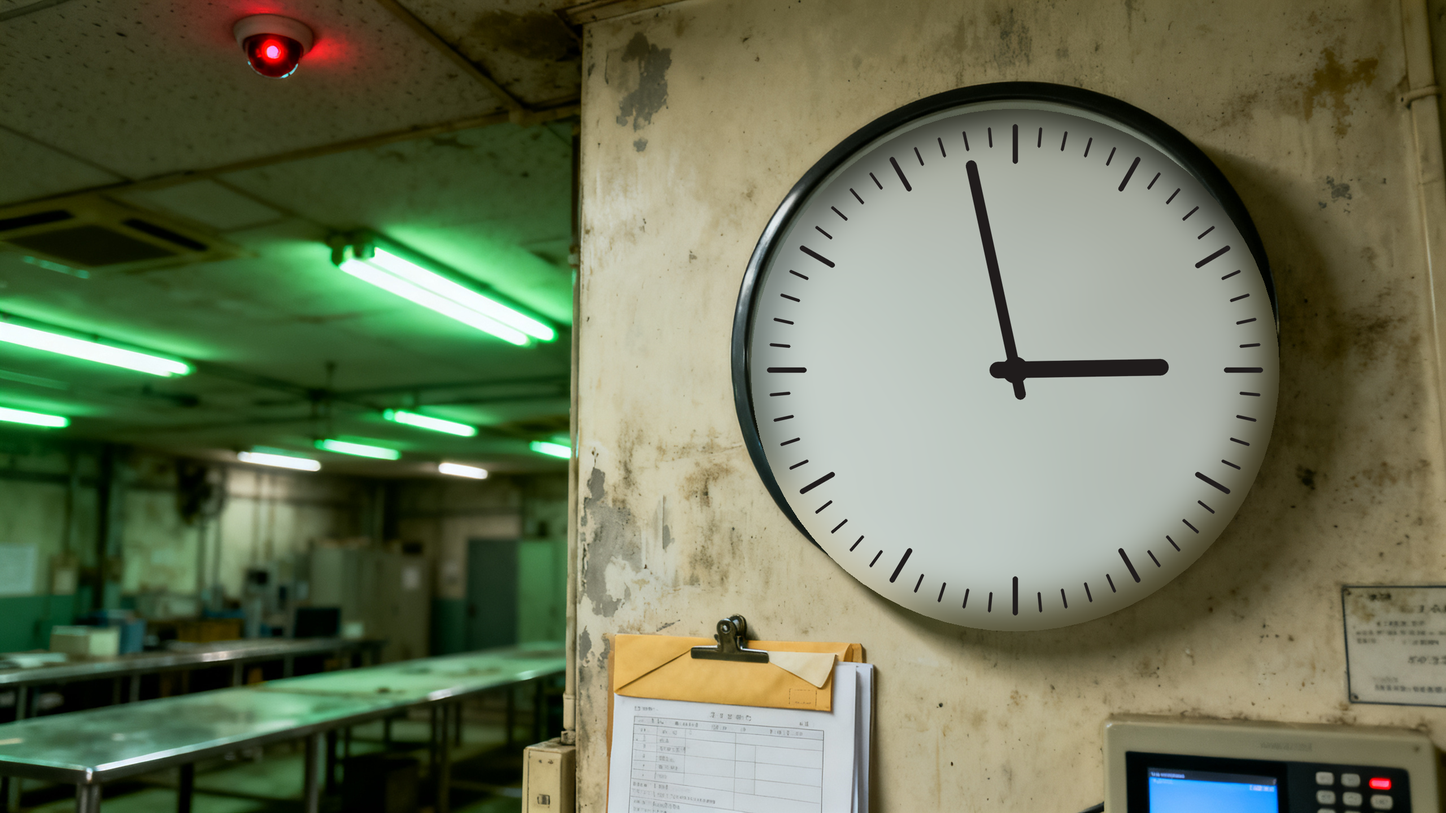
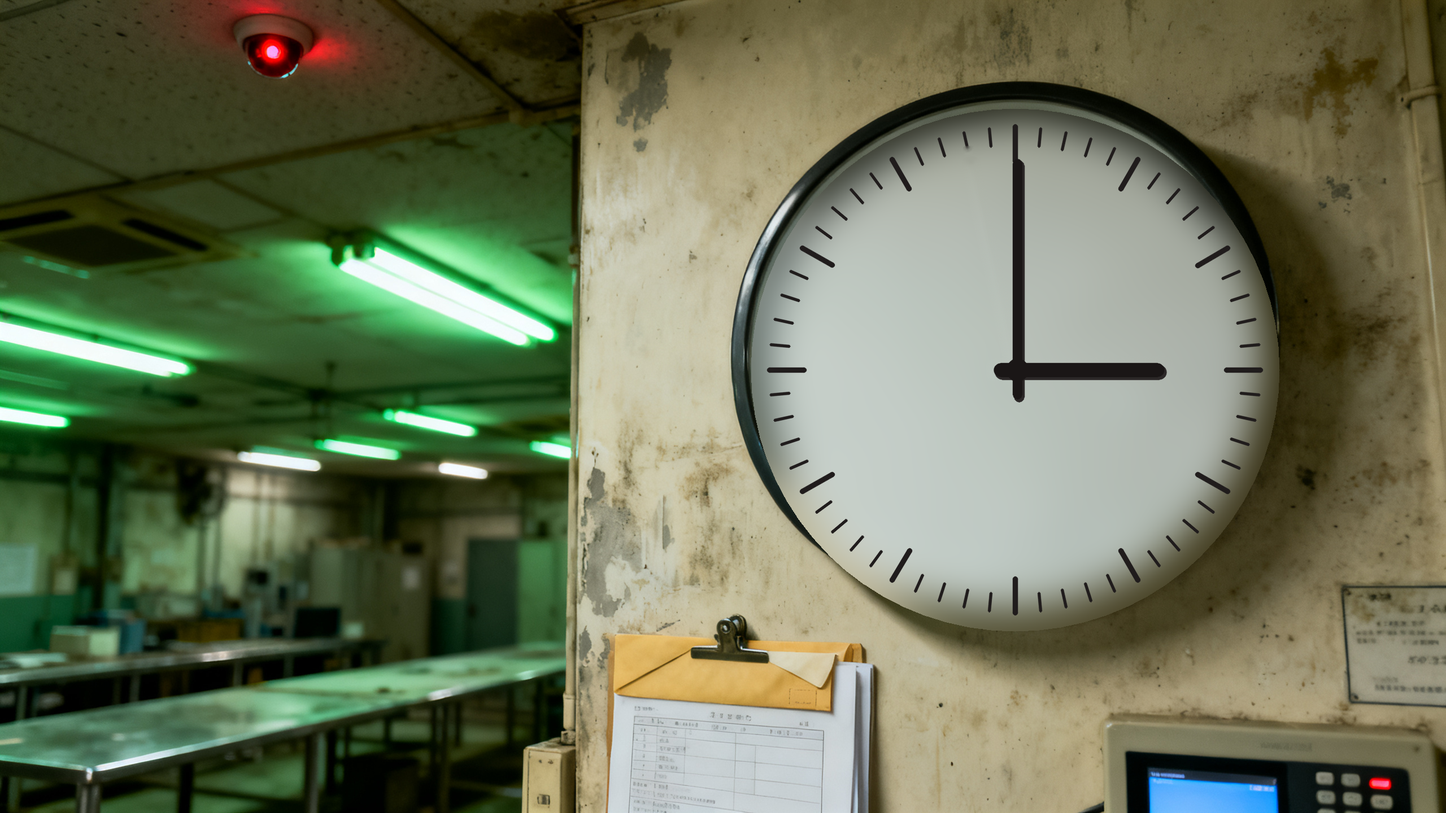
yamibaito: 벽시계 S07m 3:00·S08a 2:58 타원 재작도, S11b 폰 제거판 + 손에 든 폰 edit 스펙
Claude-Session: https://claude.ai/code/session_01VKtzLGfpb97Jok2BSbHhZd

Changed region(s): [[0.6562, 0.1875, 0.8125, 0.4688]]

diff --git a/scripts/yamibaito_clock_fix.py b/scripts/yamibaito_clock_fix.py
@@ -1,0 +1,49 @@
+"""벽시계 바늘 재작도(S07m 3:00 · S08a 2:58) — 타원(원근) 좌표로 바늘을 그린다(제20장 12 ⑨).
+사용법: python3 scripts/yamibaito_clock_fix.py  → 키프레임 덮어쓰기 + out/fin/hd/sceneNN.mp4(1920x1080 푸시인)
+"""
+import os, sys, math, json, cv2, numpy as np
+ROOT = os.path.dirname(os.path.dirname(os.path.abspath(__file__)))
+KF = os.path.join(ROOT, "assets/portraits/yamibaito-keyframes")
+HD = os.path.join(ROOT, "out/fin/hd"); QA = os.path.join(ROOT, "out/fin/phone_anim")
+# sid: (원본 판, 중심, 눈금 바깥 반축 a·b, 시, 분)  — fitEllipse로 눈금 화소에서 측정(2026-10-28)
+CLOCKS = {
+    # 끝 3개: 인페인트 안쪽 타원 비율, 추가로 지울 옛 바늘 구간 [(각도, 시작 비율, 끝 비율)], 어두움 문턱(문자판 밝기보다 충분히 낮게 — 회색 문자판에 205를 쓰면 전체가 지워져 줄무늬)
+    "S07m": ("S07m-1.png", (1801, 655), (443, 446), 3, 0, 0.80, [(348, 0.55, 0.86)], 140),   # NA43c 「午前三時」
+    "S08a": ("_v2/S08a-1.png", (854, 713), (434, 580), 2, 58, 0.87, [], 205),              # NA44 「午前二時五十八分」
+}
+
+def pt(c, ab, deg, frac):
+    th = math.radians(deg)
+    return (int(round(c[0] + ab[0] * frac * math.sin(th))), int(round(c[1] - ab[1] * frac * math.cos(th))))
+
+def hand(a, c, ab, deg, frac, width, tail=0.12):
+    p2 = pt(c, ab, deg, frac); p1 = pt(c, ab, deg + 180, frac * tail)
+    cv2.line(a, (p1[0] + 3, p1[1] + 4), (p2[0] + 3, p2[1] + 4), (40, 40, 44), width + 2, cv2.LINE_AA)  # 옅은 그림자
+    cv2.line(a, p1, p2, (22, 22, 26), width, cv2.LINE_AA)
+
+def fix(sid):
+    src, c, ab, h, m, inner_f, extra, thr = CLOCKS[sid]
+    a = cv2.imread(os.path.join(KF, src))
+    g = cv2.cvtColor(a, cv2.COLOR_BGR2GRAY)
+    inner = np.zeros_like(g); cv2.ellipse(inner, c, (int(ab[0] * inner_f), int(ab[1] * inner_f)), 0, 0, 360, 255, -1)
+    for deg, f0, f1 in extra:  # 눈금 띠 안쪽까지 뻗은 옛 바늘 끝만 좁게 지운다(눈금은 건드리지 않음)
+        cv2.line(inner, pt(c, ab, deg, f0), pt(c, ab, deg, f1), 255, int(ab[0] * 0.08))
+    dark = ((g < thr) & (inner > 0)).astype(np.uint8) * 255
+    dark = cv2.dilate(dark, np.ones((13, 13), np.uint8))
+    a = cv2.inpaint(a, dark, 9, cv2.INPAINT_TELEA)
+    hand(a, c, ab, (h % 12 + m / 60) * 30, 0.56, int(ab[0] * 0.052))
+    hand(a, c, ab, m * 6, 0.82, int(ab[0] * 0.036))
+    cv2.ellipse(a, c, (int(ab[0] * 0.045), int(ab[1] * 0.045)), 0, 0, 360, (22, 22, 26), -1, cv2.LINE_AA)
+    out = os.path.join(KF, f"{sid}-1.png"); cv2.imwrite(out, a)
+    os.makedirs(QA, exist_ok=True); cv2.imwrite(os.path.join(QA, f"{sid}.jpg"), cv2.resize(a, (1280, 720)), [cv2.IMWRITE_JPEG_QUALITY, 88])
+    return out
+
+if __name__ == "__main__":
+    sys.path.insert(0, os.path.join(ROOT, "scripts"))
+    import build_yamibaito_overrides as ov; ov.W, ov.H = 1920, 1080
+    sb = json.load(open(os.path.join(ROOT, "scripts/storyboard/yamibaito.json"), encoding="utf-8"))["scenes"]
+    num = {s["id"]: i + 1 for i, s in enumerate(sb)}; durs = {s["id"]: s["assembled_s"] + 0.5 for s in sb}
+    os.makedirs(HD, exist_ok=True)
+    for sid in (sys.argv[1].split(",") if len(sys.argv) > 1 else CLOCKS):
+        p = fix(sid); print("시계 재작도", sid, CLOCKS[sid][3:5], "→", p)
+        ov.cam(p, os.path.join(HD, f"scene{num[sid]:02d}.mp4"), durs[sid], "push"); print("HD", f"scene{num[sid]:02d}.mp4")
